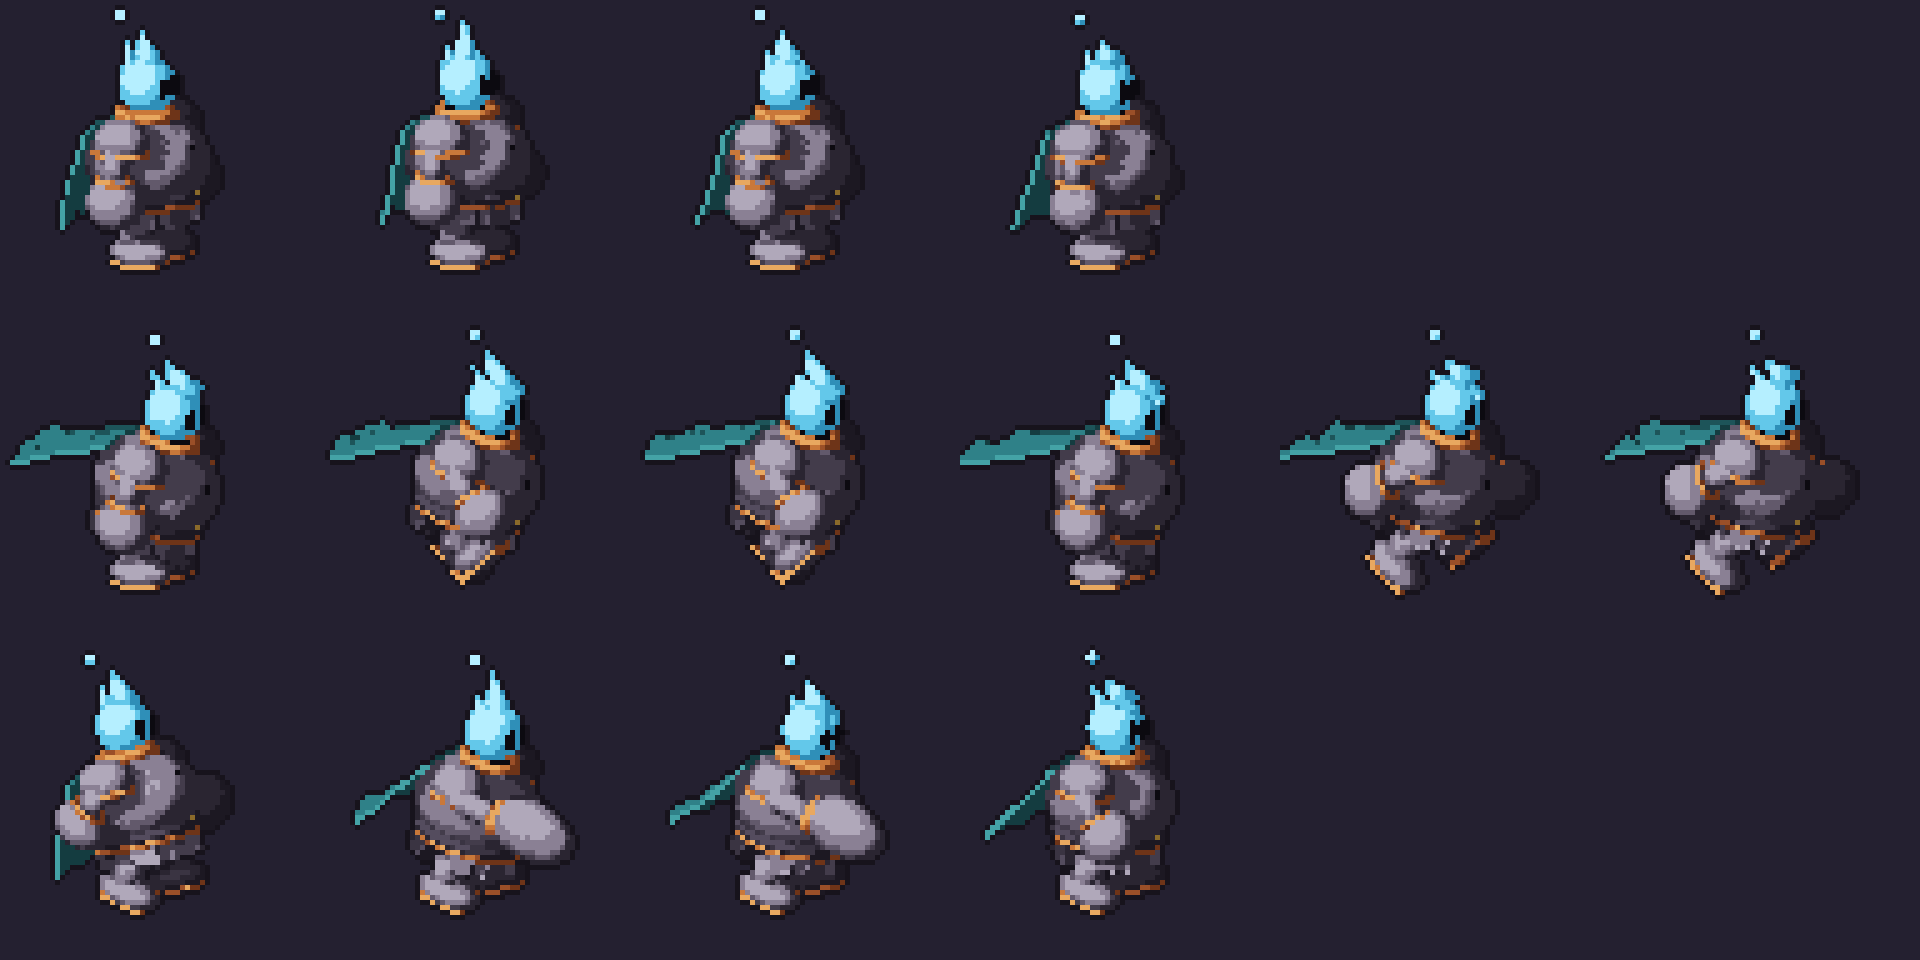
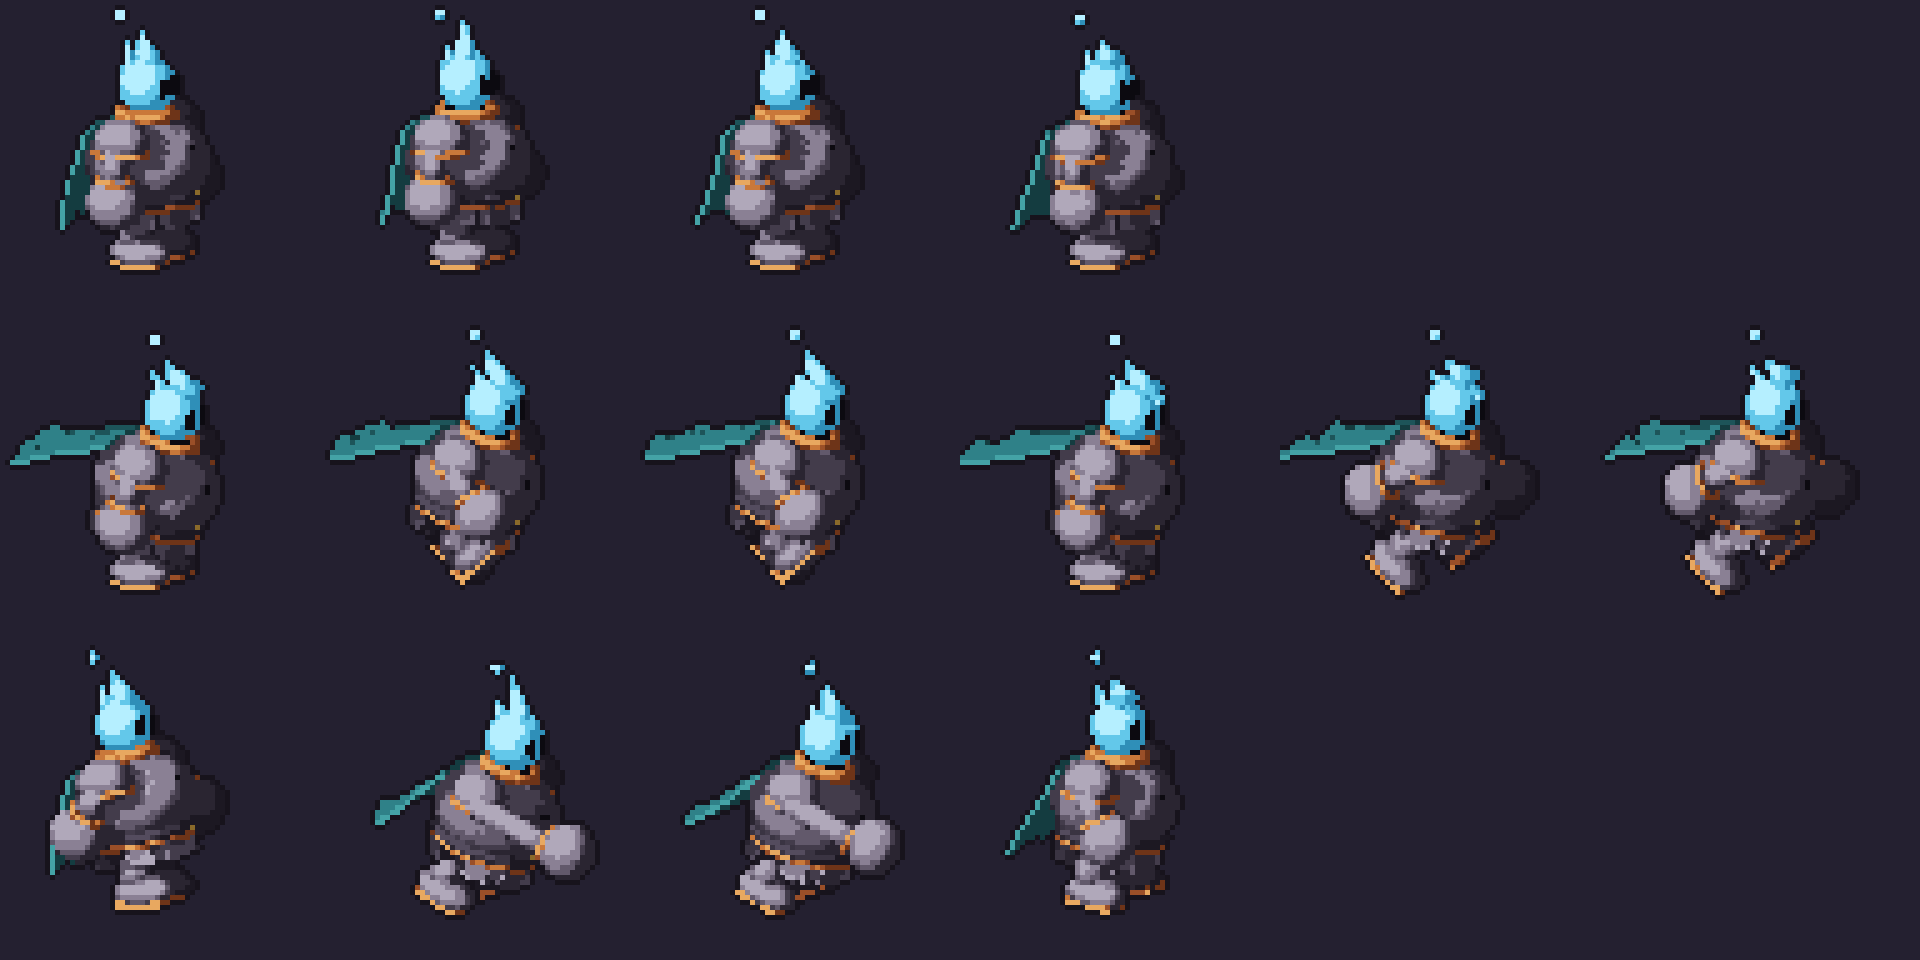
보이드 주먹 동작 수정: 주먹 크기 유지, 내딛는 자세
Claude-Session: https://claude.ai/code/session_01CPuQwRxjahy2BkbhjWZhoU

diff --git a/art/void/void_blender.py b/art/void/void_blender.py
@@ -65,13 +65,13 @@ sphere("spark", "flame", (-0.3, 0, 0.95), (0.06, 0.06, 0.06), head)
 for ey in (-0.19, 0.05):
     sphere(f"eye{ey}", "dark", (0.285, ey, 0.27), (0.05, 0.07, 0.11), head)
 # 팔: 어깨 축에서 돌린다
-arms = {}
+arms = {}; parts = {}
 for sy, mat in ((-1, "iron"), (1, "back")):
     piv = empty(f"arm{sy}", (0.02, sy * 0.76, 0.66), body)
-    cyl(f"upper{sy}", mat, (0, 0, -0.2), 0.13, 0.4, piv)
-    sphere(f"fist{sy}", mat, (0.06, 0, -0.56), (0.31, 0.28, 0.28), piv)
-    torus(f"cuff{sy}", "rust", (0.02, 0, -0.33), 0.17, 0.04, piv)
-    arms[sy] = piv
+    up = cyl(f"upper{sy}", mat, (0, 0, -0.2), 0.13, 0.4, piv)
+    fi = sphere(f"fist{sy}", mat, (0.06, 0, -0.56), (0.31, 0.28, 0.28), piv)
+    cu = torus(f"cuff{sy}", "rust", (0.02, 0, -0.33), 0.17, 0.04, piv)
+    arms[sy] = piv; parts[sy] = (up, fi, cu)
 # 다리: 골반 축에서 돌린다
 legs = {}
 for sy, mat in ((-1, "iron"), (1, "back")):
@@ -119,20 +119,22 @@ def render(path, lit):
 # ---- 포즈: 동작 이름과 진행도(0..1)로 각 부위를 놓는다 ----
 def pose(anim, u):
     w = u * 6.283
-    bob = lean = 0.0; la = [0.0, 0.0]; aa = [0.15, -0.15]; ext = 1.0; blow = 0.0; fl = u
+    bob = lean = 0.0; la = [0.0, 0.0]; aa = [0.15, -0.15]; ext = 0.0; blow = 0.0; fl = u; bx = 0.0
     if anim == "idle":
         bob = 0.03 * math.sin(w); aa = [0.12 + 0.05 * math.sin(w), -0.12 - 0.05 * math.sin(w)]
     elif anim == "run":
         bob = 0.07 * abs(math.sin(w)); lean = 0.3; blow = 0.8
         la = [0.85 * math.sin(w), -0.85 * math.sin(w)]; aa = [-1.0 * math.sin(w), 1.0 * math.sin(w)]
     elif anim == "punch":                                      # 당겼다가 뻗고 돌아온다
-        keys = [(-0.25, 0.9, 0.8), (0.3, -1.5, 1.7), (0.26, -1.45, 1.6), (0.1, -0.6, 1.0)]
-        lean, a0, ext = keys[min(3, int(u * 4))]; aa = [a0, 0.7 if a0 < 0 else -0.5]; la = [-0.35, 0.3]; blow = 0.35 if a0 < 0 else 0.1
-    body.location.z = 0.62 + bob; body.rotation_euler = (0, lean, 0)
+        # (숙임, 앞팔 각도, 팔 뻗는 길이, 가까운 다리, 먼 다리, 몸 앞으로, 들썩임)
+        keys = [(-0.2, 0.8, 0.0, 0.1, -0.1, -0.05, 0.0), (0.34, -1.5, 0.6, -0.45, 0.5, 0.2, -0.05), (0.3, -1.45, 0.5, -0.4, 0.45, 0.17, -0.05), (0.1, -0.5, 0.0, -0.15, 0.2, 0.04, 0.0)]
+        lean, a0, ext, l0, l1, bx, bob = keys[min(3, int(u * 4))]; aa = [a0, 0.6 if a0 < 0 else -0.4]; la = [l0, l1]; blow = 0.35 if a0 < -1 else 0.1
+    body.location.z = 0.62 + bob; body.location.x = bx; body.rotation_euler = (0, lean, 0)
     for i, sy in enumerate((-1, 1)):
         legs[sy].rotation_euler = (0, -la[i], 0); arms[sy].rotation_euler = (0, aa[i], 0)
         legs[sy].location.z = 0.5 + (0.1 * max(0, math.sin(w + (0 if i == 0 else math.pi))) if anim == "run" else 0)
-    arms[-1].scale = (1, 1, ext)
+    up, fi, cu = parts[-1]                                      # 팔만 길어지고 주먹 크기는 그대로
+    up.location.z = -(0.2 + ext / 2); up.scale.z = (0.4 + ext) / 0.4; fi.location.z = -0.56 - ext; cu.location.z = -0.33 - ext
     for i, l in enumerate(licks):                               # 불꽃 혀가 번갈아 길어지고 흔들린다
         s = 1 + 0.35 * math.sin(fl * 6.283 + i * 2.1); l.scale = (1, 1, s); l.rotation_euler = (0, -0.25 - blow * 0.7 + 0.2 * math.sin(fl * 6.283 + i), 0)
     head.rotation_euler = (0, -lean * 0.6, 0)
